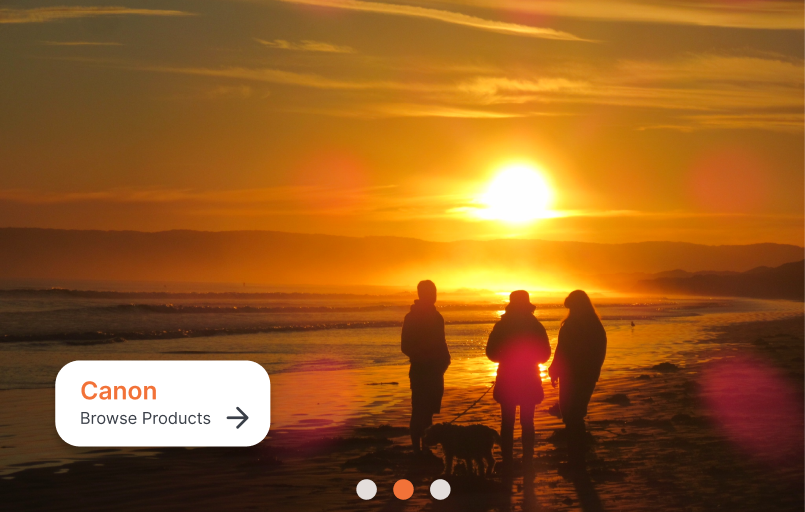
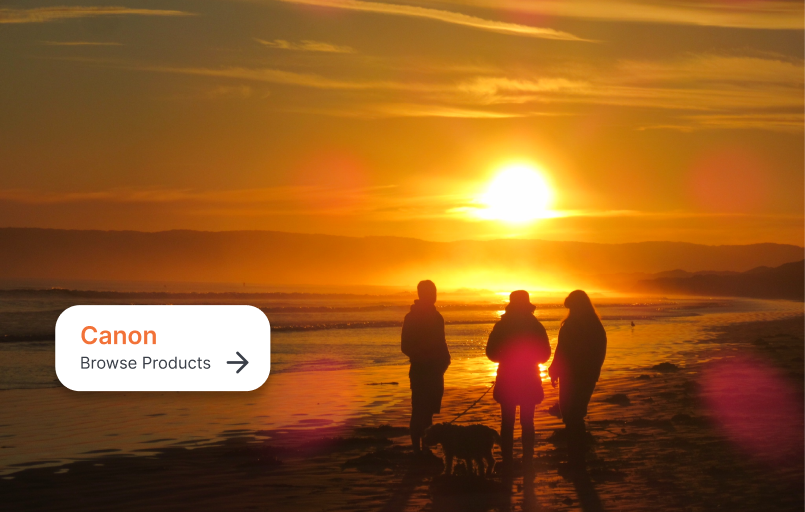
Implement Animation Carasole

Changed region(s): [[0.0621, 0.5938, 0.3416, 0.875], [0.4348, 0.9375, 0.559, 1.0]]

diff --git a/script.js b/script.js
@@ -1,50 +1,42 @@
-// JavaScript code for the carousel
-let slideIndex = 0; // Start from the first slide
+// Script to automatically cycle through carasole slides every 6 seconds
+let slideIndex = 0;
 showSlides();
 
-function plusSlides(n) {
-    showSlides(slideIndex += n);
+function showSlides() {
+  let i;
+  let slides = document.getElementsByClassName("slides");
+  let circles = document.getElementsByClassName("circle");
+  for (i = 0; i < slides.length; i++) {
+    slides[i].style.display = "none";  
+  }
+  slideIndex++;
+  if (slideIndex > slides.length) {
+    slideIndex = 1;
+  }
+  for (i = 0; i < circles.length; i++) {
+    circles[i].className = circles[i].className.replace(" active", "");
+  }
+  slides[slideIndex - 1].style.display = "block";  
+  circles[slideIndex - 1].className += " active";
+  setTimeout(showSlides, 6000);
 }
 
 function currentSlide(n) {
-    showSlides(slideIndex = n - 1); // Adjust index to match array index
+  slideIndex = n;
+  updateSlides();
 }
 
-function showSlides() {
-    let i;
-    let slides = document.getElementsByClassName("slides");
-    let circles = document.getElementsByClassName("circle");
-    
-    // Increment slide index
-    slideIndex++;
-    
-    // Reset slide index if it exceeds the number of slides
-    if (slideIndex > slides.length) {
-        slideIndex = 1;
-    }
-    
-    // Display the appropriate slide
-    for (i = 0; i < slides.length; i++) {
-        slides[i].style.display = "none";
-    }
-    for (i = 0; i < circles.length; i++) {
-        circles[i].classList.remove("active");
-    }
-    slides[slideIndex - 1].style.display = "block";
-    circles[slideIndex - 1].classList.add("active");
-
-    // Set timer for next slide
-    setTimeout(showSlides, 20000); // Change slide every 2 seconds (adjust as needed)
-}
-
-// Add event listeners to slides for clicking
-let slides = document.getElementsByClassName("slides");
-for (let i = 0; i < slides.length; i++) {
-    slides[i].addEventListener("click", function() {
-        currentSlide(i + 1); // Set current slide index when clicked
-    });
-}
-
-function removeElement(string) {
-    document.getElementById(string).style.display = "none";
+// Script to update carasole slides when the corresponding circle is clicked
+function updateSlides() {
+  let i;
+  let slides = document.getElementsByClassName("slides");
+  let circles = document.getElementsByClassName("circle");
+  for (i = 0; i < slides.length; i++) {
+    slides[i].style.display = "none";  
   }
+  for (i = 0; i < circles.length; i++) {
+    circles[i].className = circles[i].className.replace(" active", "");
+  }
+  slides[slideIndex - 1].style.display = "block";  
+  circles[slideIndex - 1].className += " active";
+}

diff --git a/index.html b/index.html
@@ -5,9 +5,10 @@
     <meta name="viewport" content="width=device-width, initial-scale=1.0">
     <title>The Camera Exchange</title>
     <link rel="stylesheet" href="styles.css">
-    <link rel="script" href="script.js">
 </head>
 <body>
+    <script src="script.js"></script>
+    
     <!-- Header -->
     <header>
         <!-- Inner Header including content -->
@@ -47,25 +48,27 @@
         <!-- Carasole of Images -->
         <div class="carasole">
             <div class="slides fade">
-                <img src="res/carasole-1-large.png" style="width:100%">
+                <img id="desktop-slide" src="res/carasole-1-large.png" style="width:100%">
+                <img id="mobile-slide" src="res/carasole-1-small.png" style="width:100%">
             </div>
             <div class="slides fade">
-                <img src="res/carasole-2-large.png" style="width:100%">
+                <img id="desktop-slide" src="res/carasole-2-large.png" style="width:100%">
+                <img id="mobile-slide" src="res/carasole-2-small.png" style="width:100%">
             </div>
             <div class="slides fade">
-                <img src="res/carasole-3-large.png" style="width:100%">
+                <img id="desktop-slide" src="res/carasole-3-large.png" style="width:100%">
+                <img id="mobile-slide" src="res/carasole-3-small.png" style="width:100%">
             </div>
-        </div>
-
-        <br>
-
-        <!-- Circles to naviage carasole -->
+            <!-- Circles to naviage carasole -->
         <div class="slide-nav">
             <span class="circle" onclick="currentSlide(1)"></span>
             <span class="circle" onclick="currentSlide(2)"></span>
             <span class="circle" onclick="currentSlide(3)"></span>
         </div>
+        </div>
 
+        <!-- <br> -->
+        
         <!-- New Releases section -->
         <div class = "new-releases-title">
             <h2>New releases</h2>
@@ -78,7 +81,7 @@
         </div>
             
         <!-- Product card carasole -->
-        <div class="container">
+        <div class="new-releases">
             <div class="product-cards">
                 <div class="product-card">
                     <img src="res/CanonProgram1.png">

diff --git a/styles.css b/styles.css
@@ -565,6 +565,7 @@ hr {
     margin: 125px 0 125px 0;
     max-width: 240px;
 }
+
 /* Media query for iPhone 12 Pro */
 @media only screen and (max-width: 390px) {
     #checkout-grid h1{
@@ -599,19 +600,51 @@ hr {
 /* Index Styles */
 #index-grid {
     display: grid;
-    grid-template-rows: auto auto auto;
+    grid-template-rows: 2fr auto 3fr ;
 }
 
 #index-grid .carasole{
     grid-row: 1;
+    position: relative;
+}
+
+.slides{
+    display:none;
+}
+.slide-nav {
+    position: absolute;
+    bottom: 5rem; /* Position the circles 10px from the bottom */
+    width: 100%;
+    text-align: center;
+  }
+
+.circle {
+    cursor: pointer;
+    height: 12px;
+    width: 12px;
+    margin: 0 2px 0;
+    background-color: var(--colour-border);
+    border-radius: 50%;
+    display: inline-block;
+    transition: background-color 0.6s ease;
+}
+.active, .dot:hover {
+    background-color: var(--color-primary);
+} 
+/* Fading animation */
+.fade {
+    animation-name: fade;
+    animation-duration: 1.5s;
+}
+
+@keyframes fade {
+    from {opacity: .4}
+    to {opacity: 1}
 }
 
 #index-grid .new-releases-title{
     grid-column: 1/-1;
     grid-row: 2;
-    display: flex;
-    flex-direction: column;
-    align-items: flex-start;
 }
 
 .new-releases-title h2 {
@@ -624,6 +657,7 @@ hr {
     display: flex;
     align-items: center;
     margin-top: 2px;
+    margin-bottom: 12px;
 }
   
 .discover-more a {
@@ -638,7 +672,7 @@ hr {
     width: 18px;
 }
 
-#index-grid .container{
+#index-grid .new-releases{
     grid-column: 1/-1;
     grid-row: 3;
     display: flex;
@@ -698,6 +732,27 @@ hr {
     color: var(--color-primary);
     font-weight: 700;
     margin-top: 16px;
+}
+#mobile-slide{
+    display: none;
+}
+
+@media only screen and (max-width: 390px) {
+    #mobile-slide{
+        display: block;
+    }
+    #desktop-slide{
+        display: none;
+    }
+    .slides{
+        height: 2rem;
+    }
+    .new-releases{
+        margin-bottom: 1rem;
+    }
+    .slide-nav {
+        bottom: 2rem;
+    }
 }
 
 
@@ -759,6 +814,7 @@ hr {
     padding-top: 8px;
     color: var(--color-secondary-dark);
     font-weight: 700;
+    height: 2.25em;
   }
   
   .product-list-title.expanded {

diff --git a/productlist.html b/productlist.html
@@ -55,8 +55,11 @@
                 <div class="product-list-image" onclick="location.href='productpage1.html'">
                     <img src="res/CanonProgram1.png" alt="Canon AE-1 Program w/ 50mm f1.8">
                 </div>
+
                 <div class="product-list-title" onclick="location.href='productpage1.html'">
-                    <h7>Canon AE-1 Program w/ 50mm f1.8</h7>
+                    <h7>
+                        Canon AE-1 Program w/ 50mm f1.8
+                    </h7>
                 </div>
                 <p class="product-list-description"onclick="location.href='productpage1.html'">
                     Canon AE-1 Program w/ 50mm f1.8, Great condition, in full working order comes with all required caps.
